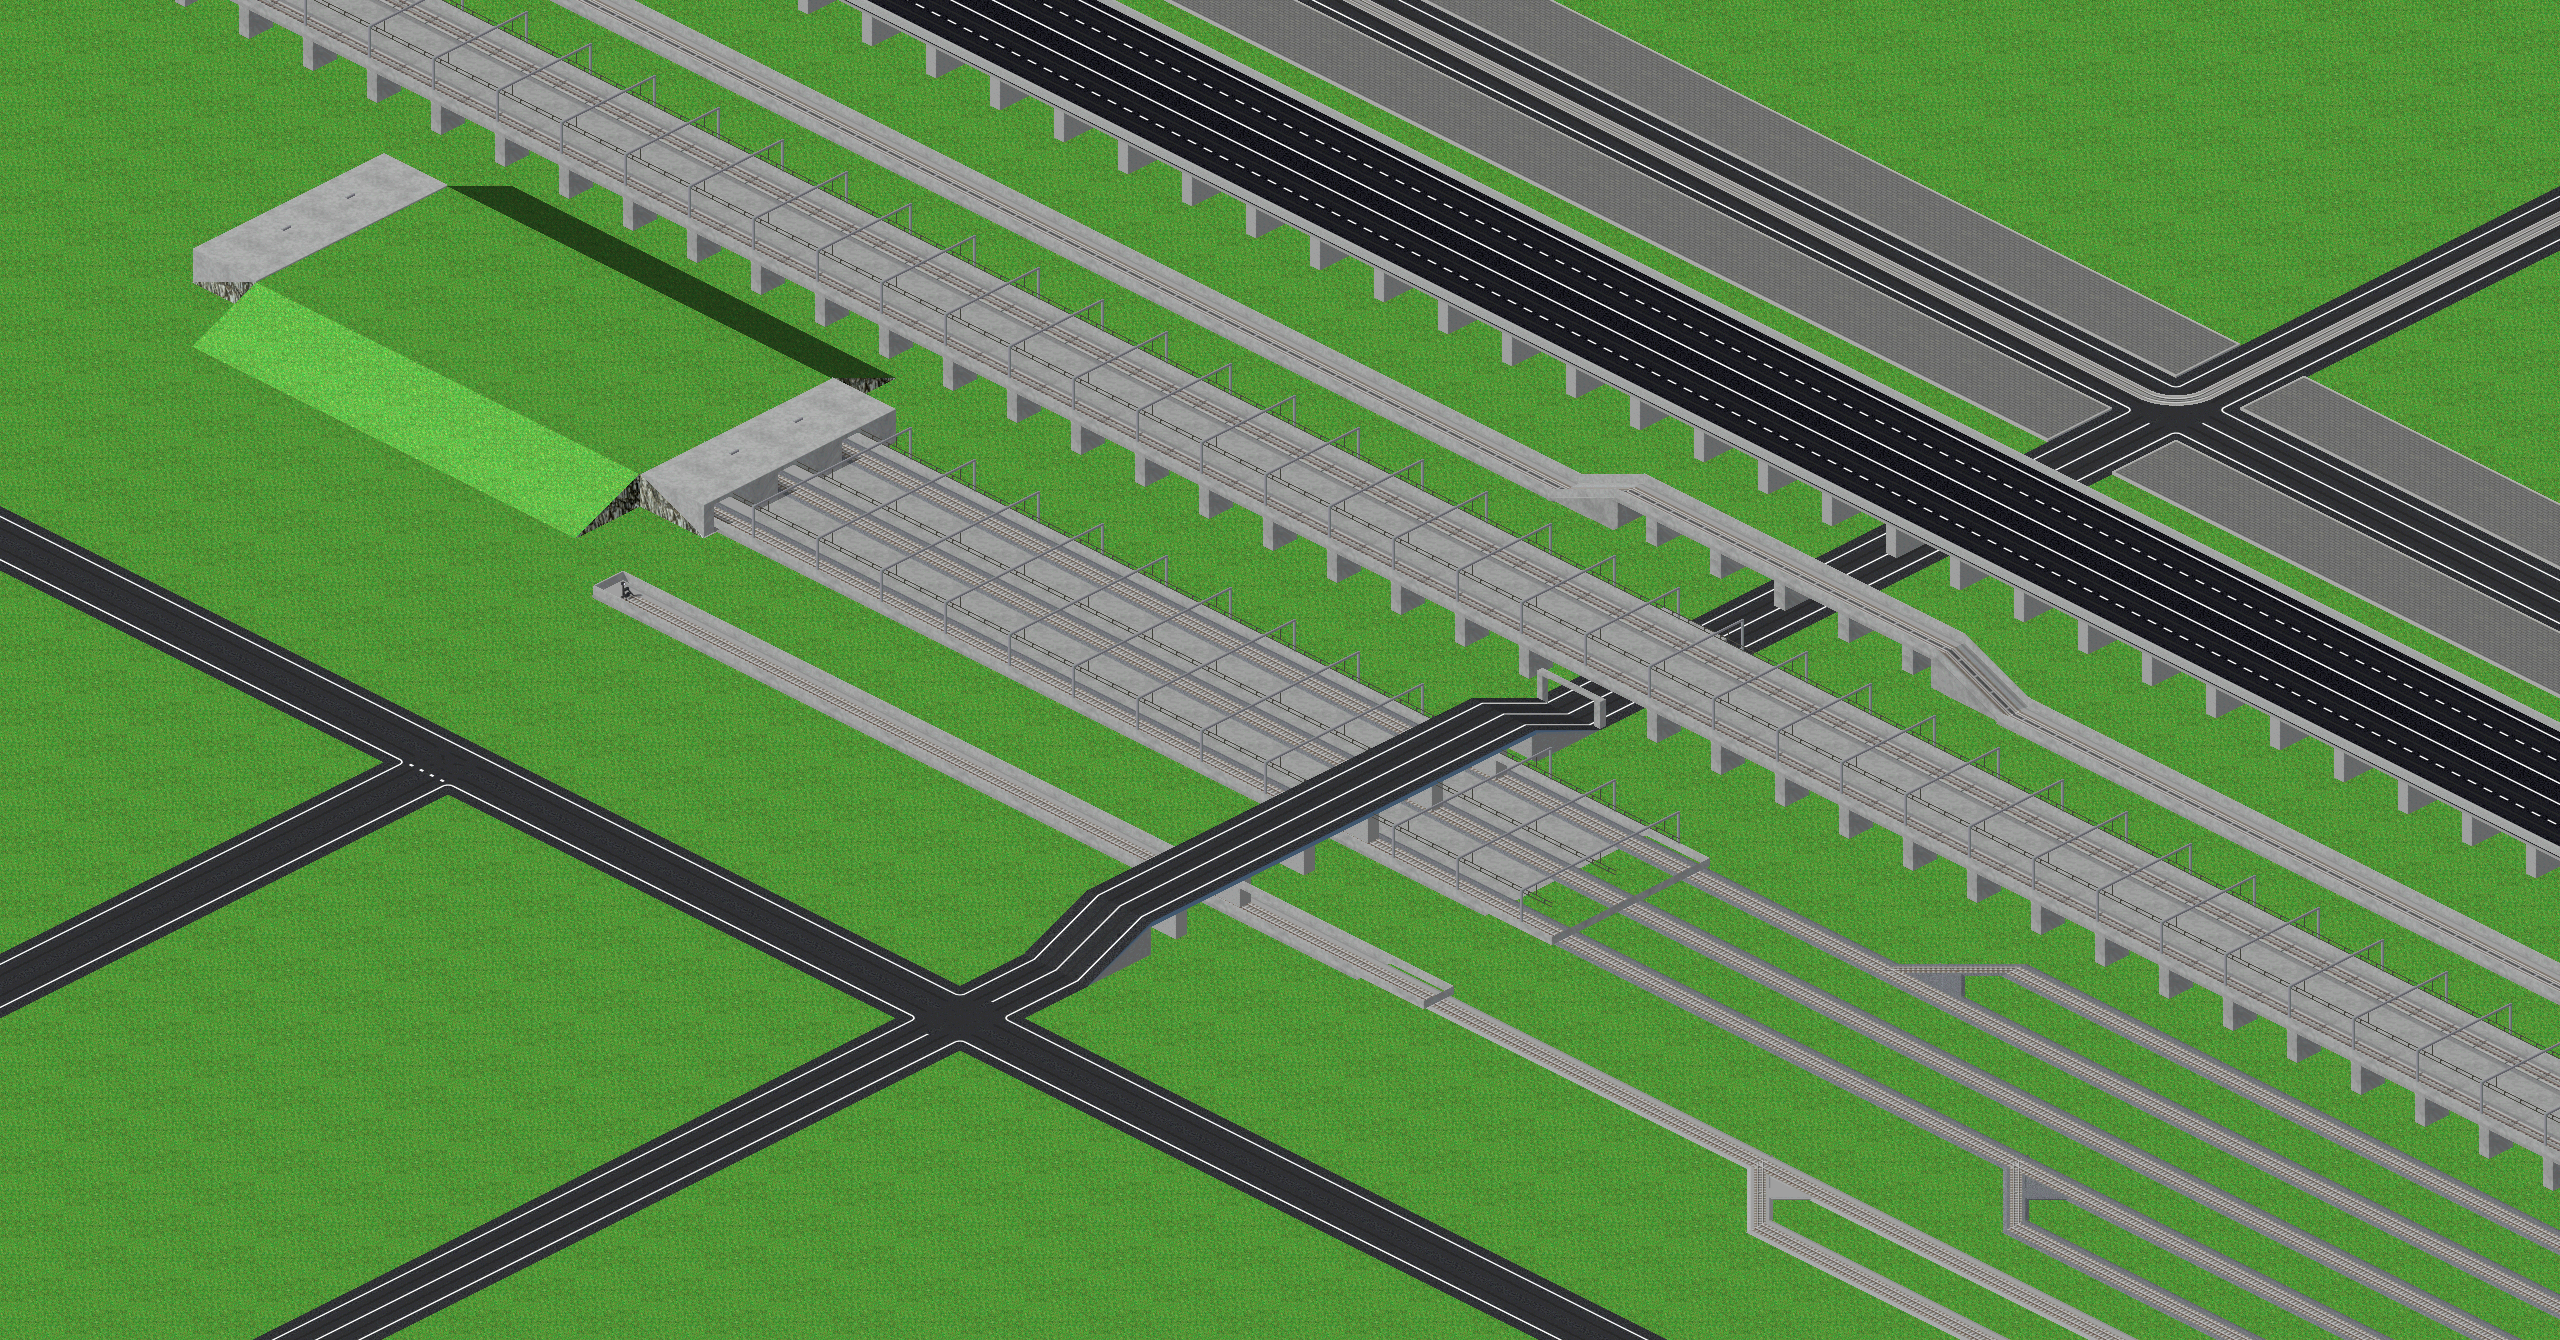
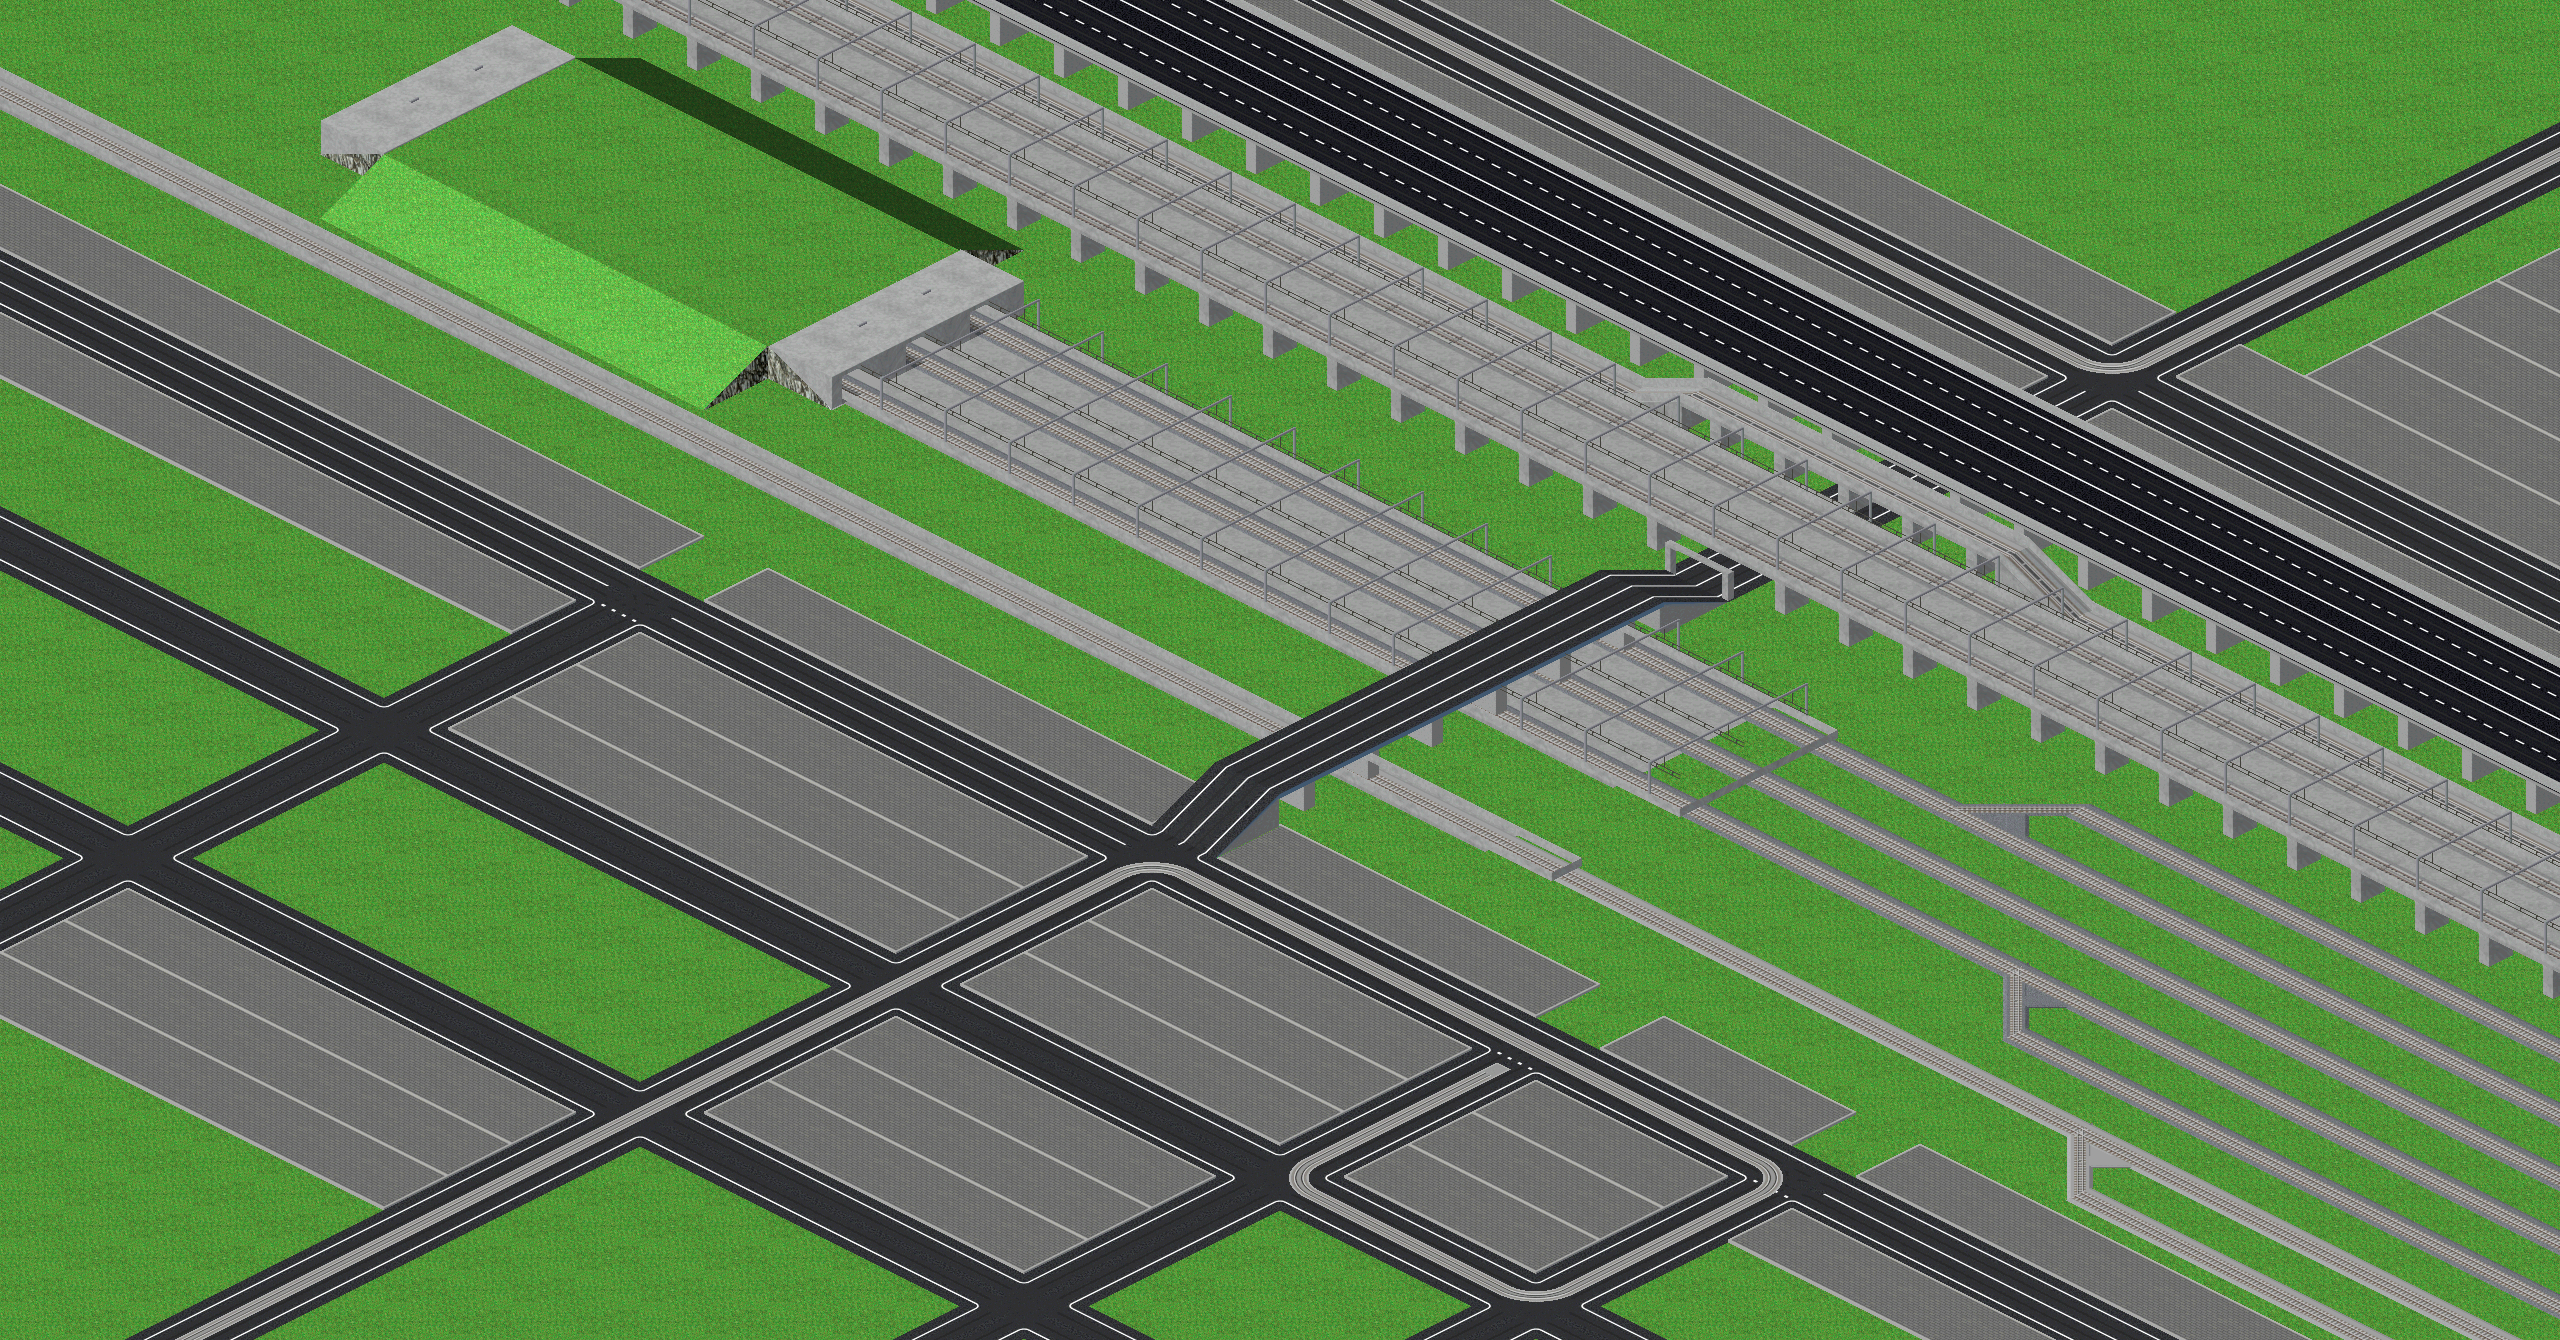
ami: pack the thumbnail district denser and finish the captioned images (#96)

diff --git a/addons/ami/ingame/thumbnail_compose.py b/addons/ami/ingame/thumbnail_compose.py
@@ -8,7 +8,7 @@
     uv run ingame/thumbnail_compose.py [撮った画面] [--plain]
 
 - 撮った画面の既定は work/thumbnail/shot.png（thumbnail_capture.sh の既定の出力。SCREEN=2560x1400 で撮る）。
-- 出力は docs/thumbnail/ の thumbnail.png（文字入り、2560x1340）と ogp.jpg（同じ大きさの JPEG。手本の iss と同じく、縮めるのはファイルの大きさだけで、画素は縮めない）。
+- 出力は docs/thumbnail/ の thumbnail.png（文字入り、2560x1340）と ogp.jpg（Web 用に 1200x628 へ縮めた JPEG。2026-11-21、ユーザーの決定）。
   --plain を付けると、文字なしの plain.png だけを書く（構図の確かめ用）。
 - 比率は OGP の 1.91:1（2560x1340）。撮った画面の地図の部分（道具欄の下から状態欄の上まで）の真ん中から切り出す。
 - 文字は手本（iss の docs/thumbnail.png）の作りに合わせる: 上に白の太い斜体の英語の題名と影、左下に「内容」の箇条書きと種類の数。
@@ -24,6 +24,7 @@ from PIL import Image, ImageDraw, ImageFilter, ImageFont
 HERE = pathlib.Path(__file__).resolve().parent.parent  # アドオンのディレクトリ
 OUT_DIR = HERE / "docs" / "thumbnail"
 SIZE = (2560, 1340)  # 1.91:1
+OGP_SIZE = (1200, 628)  # OGP の推奨の大きさ（1.91:1）
 TOOLBAR = 32  # 画面の上の道具欄の高さ（px）
 STATUSBAR = 16  # 画面の下の状態欄の高さ（px）
 
@@ -32,7 +33,6 @@ FONT_TITLE = os.environ.get("FONT_TITLE", str(FONTS / "segoeuiz.ttf"))  # Segoe 
 FONT_BODY = os.environ.get("FONT_BODY", str(FONTS / "YuGothB.ttc"))  # 游ゴシック Bold
 
 TITLE = "AI Marunage Infrastructure"
-BADGE = os.environ.get("BADGE", "")  # 題名の後ろに足す字（例: "β"。ベータ版の字を入れる案）
 BODY = [
     "内容",
     "　線路 4 種（バラスト・直結・ラダー・スラブ）",
@@ -75,9 +75,8 @@ def text_with_shadow(img: Image.Image, xy, text, font, offset=6, blur=6, alpha=2
 
 def compose(base: Image.Image) -> Image.Image:
     img = base.convert("RGBA")
-    title = TITLE + (" " + BADGE if BADGE else "")
     font_title = ImageFont.truetype(FONT_TITLE, 150)
-    text_with_shadow(img, (60, 10), title, font_title, offset=8, blur=8)
+    text_with_shadow(img, (60, 10), TITLE, font_title, offset=8, blur=8)
     font_body = ImageFont.truetype(FONT_BODY, 64)
     lines = BODY + [COUNT.format(n=round(count_objects(), -1))]
     line_h = 84
@@ -101,8 +100,8 @@ def main() -> None:
         return
     img = compose(base)
     img.save(OUT_DIR / "thumbnail.png", optimize=True)
-    img.save(OUT_DIR / "ogp.jpg", quality=85, optimize=True)
-    print(f"[compose] {OUT_DIR / 'thumbnail.png'} {img.size}、{OUT_DIR / 'ogp.jpg'}")
+    img.resize(OGP_SIZE, Image.LANCZOS).save(OUT_DIR / "ogp.jpg", quality=88, optimize=True)
+    print(f"[compose] {OUT_DIR / 'thumbnail.png'} {img.size}、{OUT_DIR / 'ogp.jpg'} {OGP_SIZE}")
 
 
 if __name__ == "__main__":

diff --git a/addons/ami/README.md b/addons/ami/README.md
@@ -426,7 +426,7 @@ AMI として変えた点（2026-11-17。後半はユーザーの見た目の指
 
 ### リリース用のサムネイル（#96）
 
-公開物に使う画像は `docs/thumbnail/` の `thumbnail.png`（2560x1340、OGP の 1.91:1）と `ogp.jpg`（同じ絵の JPEG）。文字なしの画面は `plain.png`。生成画像は使わず、手本の iss（`docs/thumbnail.png`）と同じく、ゲームの画面に文字を重ねて作る。
+公開物に使う画像は `docs/thumbnail/` の `thumbnail.png`（2560x1340、OGP の 1.91:1）と `ogp.jpg`（同じ絵を Web 用に 1200x628 へ縮めた JPEG）。文字なしの画面は `plain.png`。生成画像は使わず、手本の iss（`docs/thumbnail.png`）と同じく、ゲームの画面に文字を重ねて作る。
 
 - 見本の街区は `ingame/thumbnail.nut` が `flat_512.sve` の写しに敷く（保存はしない）。並びはスクリプトの冒頭の表
 - 撮る: `GAME_DIR=<検証用のフォルダ> EXE=<実行ファイル> PORT=<ポート> bash ingame/thumbnail_capture.sh`。ゲームを 2560x1400 の画面で起動し、等倍（`gui.set_zoom(3)`）で `work/thumbnail/shot.png` に撮る。敷けなかったときは撮らずに止まる
